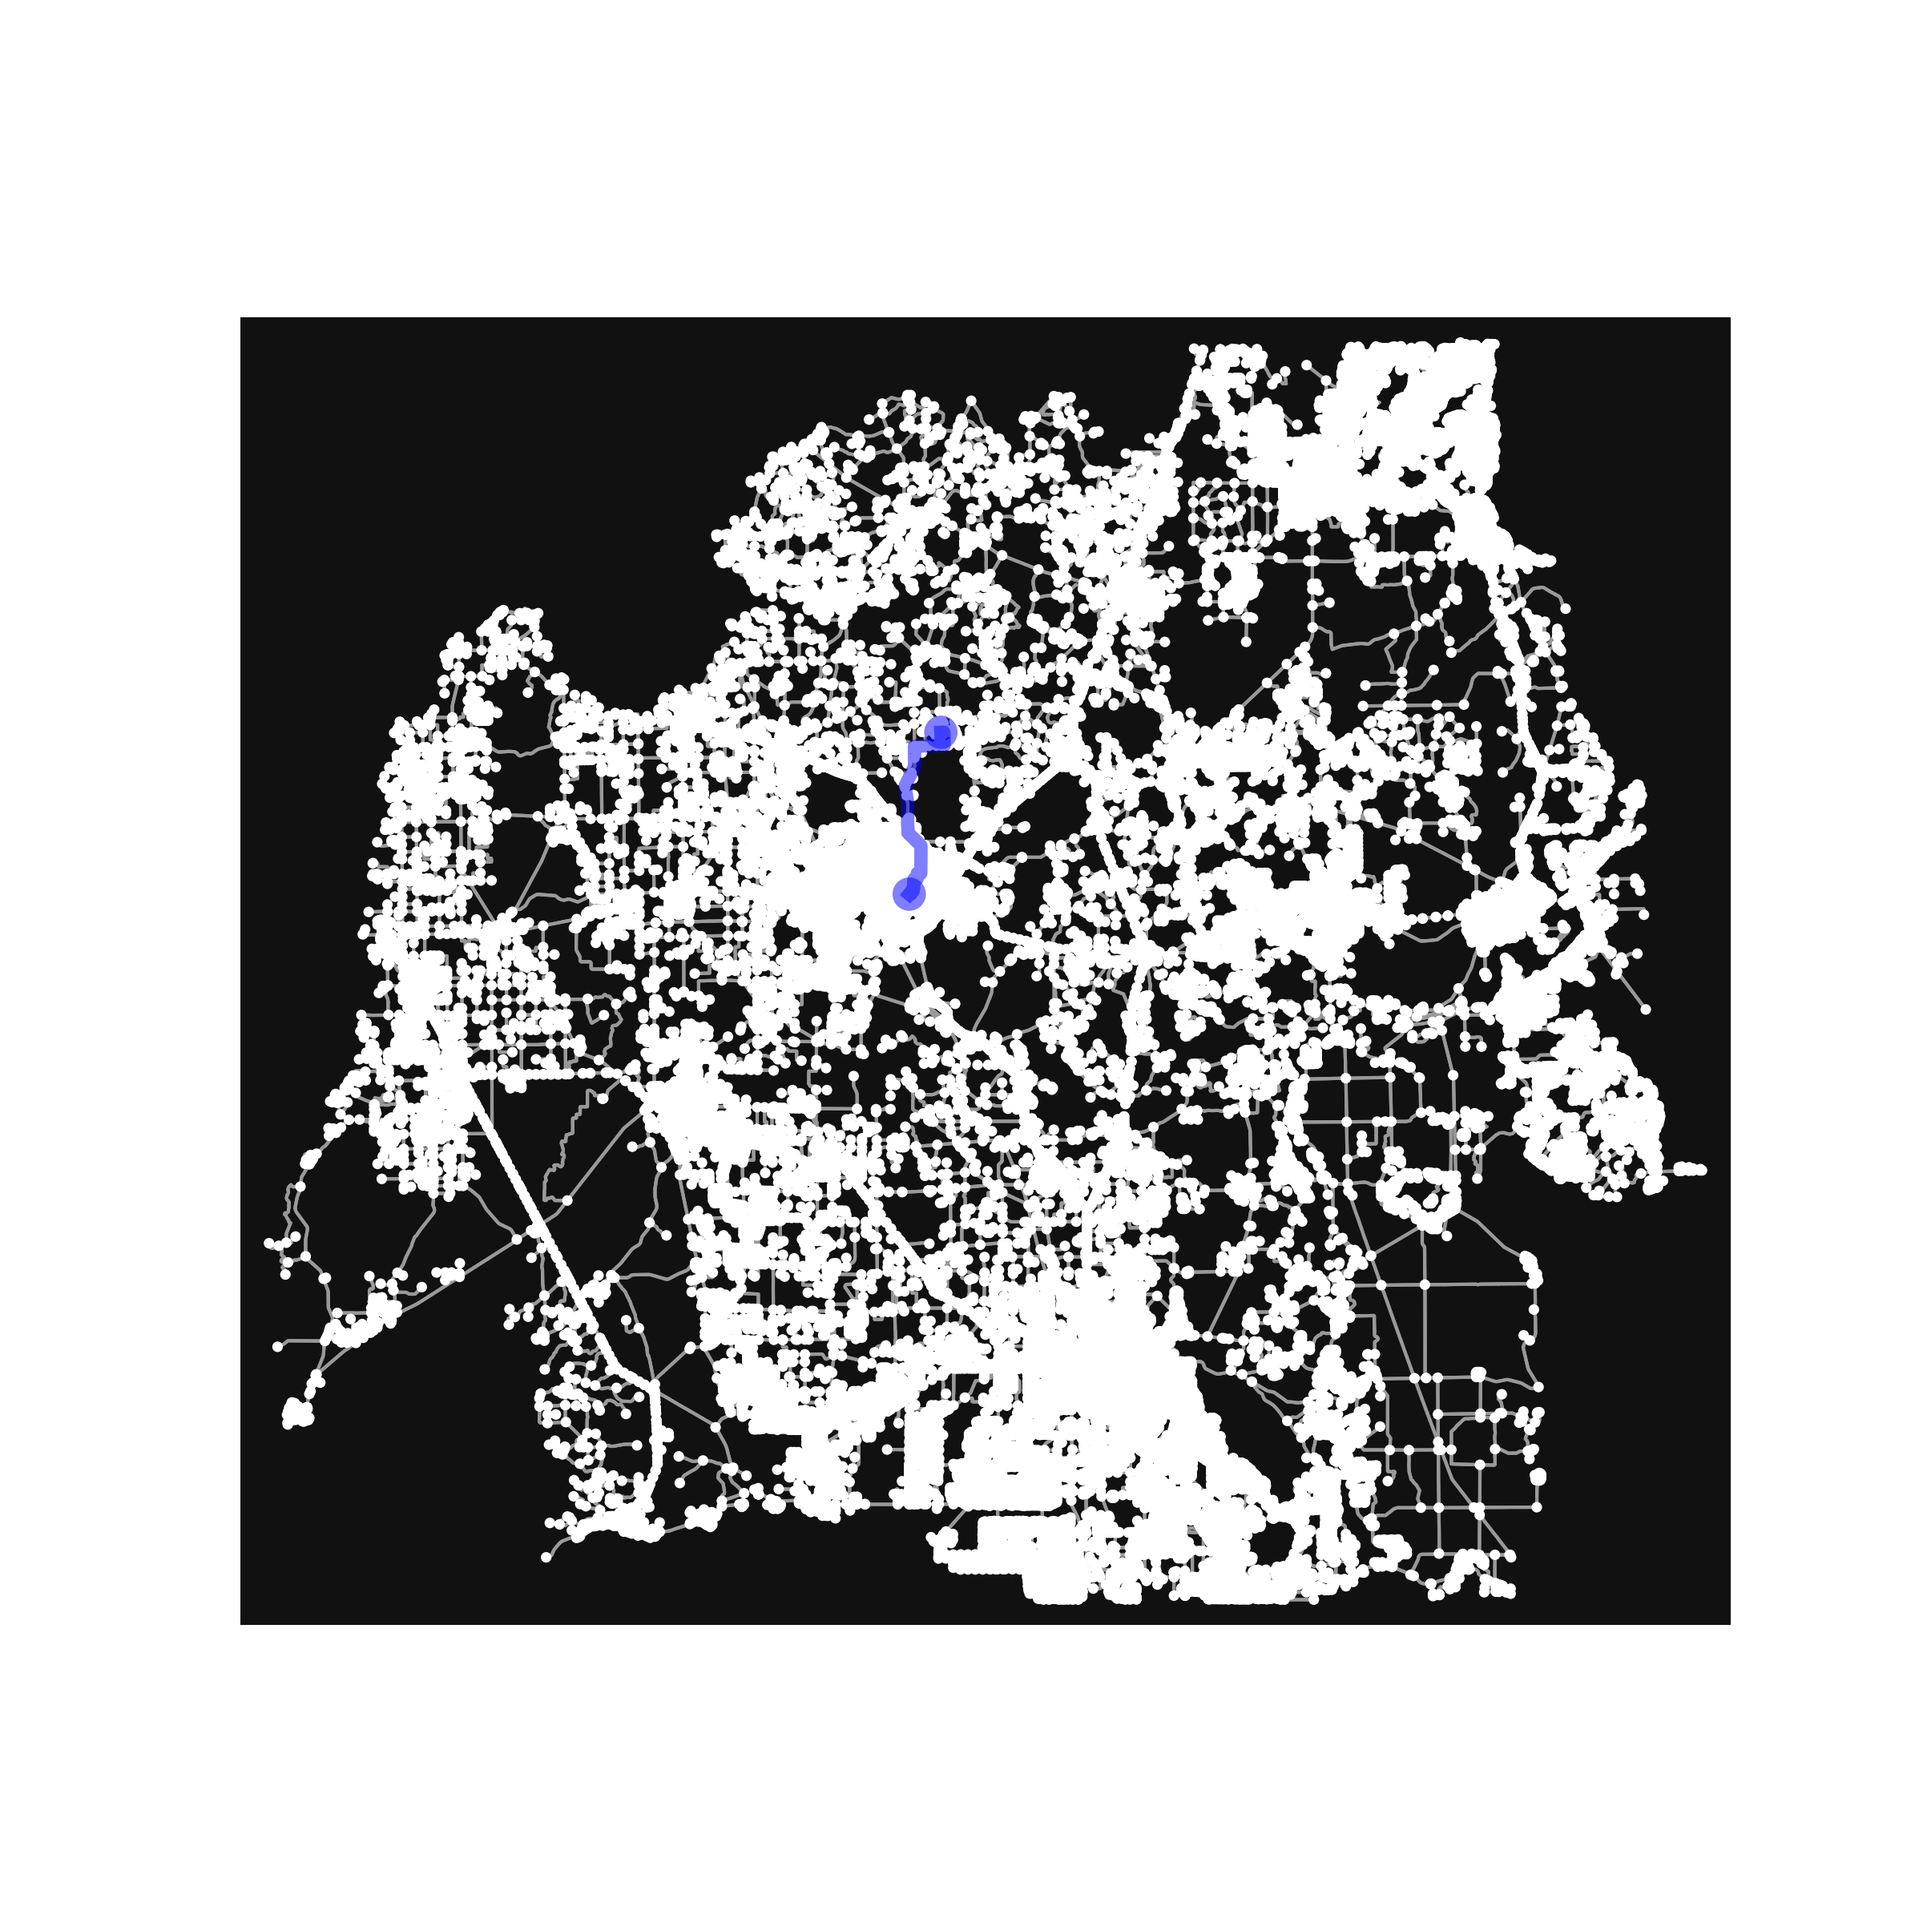
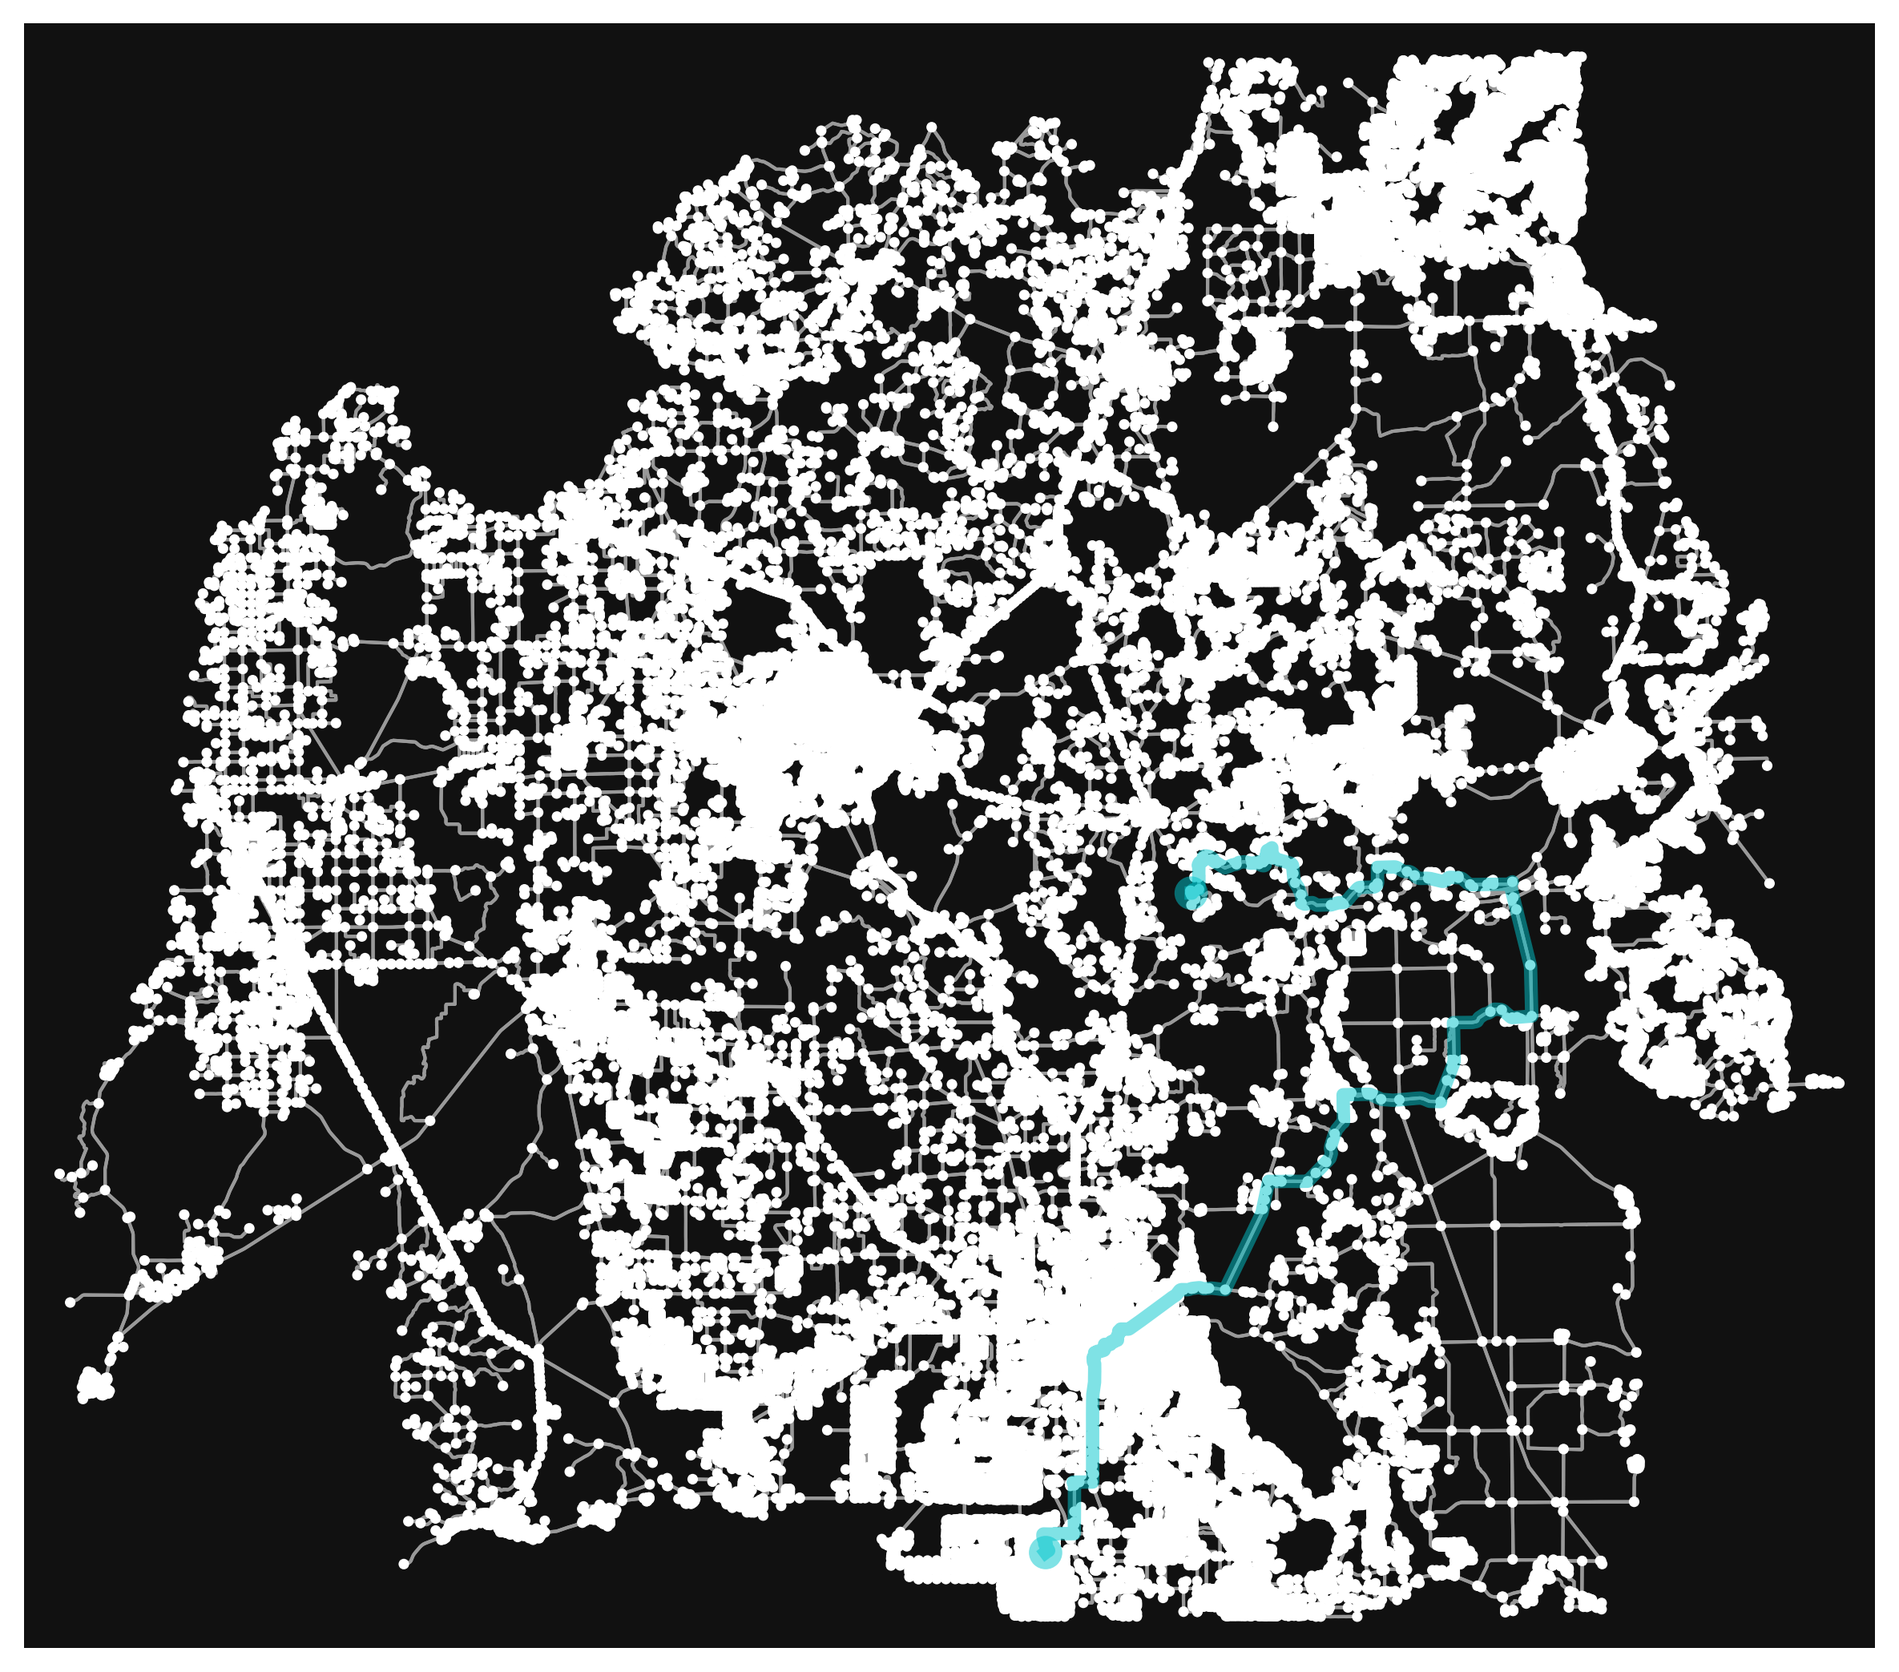
Added CSS styles, error messages & funny message

diff --git a/mapInterface/src/Content.js b/mapInterface/src/Content.js
@@ -1,13 +1,40 @@
-import React, { useState } from "react";
+import React, { useState, useRef } from "react";
 
 const Content = () => {
   const [results, setResults] = useState(null);
   const [error, setError] = useState(null);
   const [isLoading, setIsLoading] = useState(false);
+  const [isTakingLong, setIsTakingLong] = useState("");
   const API_URL = "http://localhost:5000/api/run-functions";
+
+  const timerRef = useRef(null);
+  const randomMessages = [
+    "This was a personal project created by Kaden Luangsouphom and Devan Parekh!",
+    "Did you know that penguins can't fly?",
+    "Fun fact, there are a lot of dangerous creatures that live in Australia!",
+    "Did you know Flamingos aren't born pink?",
+    "Did you know Australia is wider than the moon?",
+    "Did you know Ketchup was once medicine (in the 1830s)?",
+  ];
+
+  const displayMessage = () => {
+    const randomIndex = Math.floor(Math.random() * randomMessages.length);
+    return randomMessages[randomIndex];
+  };
 
   const handleRunFunctions = async () => {
     setIsLoading(true);
+    setError(null);
+    setIsTakingLong("");
+
+    timerRef.current = setTimeout(() => {
+      setIsTakingLong(displayMessage());
+    }, 1000);
+
+    timerRef.current = setTimeout(() => {
+      setIsTakingLong("Generating may take longer for the first click...");
+    }, 12000);
+
     try {
       const response = await fetch(API_URL, {
         method: "POST",
@@ -26,32 +53,47 @@ const Content = () => {
       setError(err.message);
     } finally {
       setIsLoading(false);
+      setIsTakingLong("");
+
+      if (timerRef.current) {
+        clearTimeout(timerRef.current);
+        timerRef.current = null;
+      }
     }
   };
 
   return (
-    <div class="content-div">
-      <h2>Run Pathfinding Algorithms</h2>
-      <button onClick={handleRunFunctions} disabled={isLoading}>
+    <div className="content-div">
+      <h2 style={{ marginBottom: "15px" }}>Run Pathfinding Algorithms</h2>
+      <button
+        class="submit-button"
+        onClick={handleRunFunctions}
+        disabled={isLoading}
+      >
         {isLoading ? "Generating..." : "Generate!"}
       </button>
       {isLoading && <div className="loading-spinner"></div>}
+      {isTakingLong && (
+        <p style={{ color: "rgb(0, 198, 205)" }}>{isTakingLong}</p>
+      )}
       {error && <p style={{ color: "red" }}>{error}</p>}
-      {results && (
-        <div>
-          <h3>Results:</h3>
-          <p>
-            <strong>A*:</strong> {results.a_star.time}s,{" "}
-            {results.a_star.distance}m
-          </p>
-          <p>
-            <strong>Dijkstra's:</strong> {results.dijkstra.time}s,{" "}
-            {results.dijkstra.distance}m
-          </p>
+      {!isLoading && results && (
+        <div class="results-box-dix">
+          <div class="results-text">
+            <h3>Results:</h3>
+            <p>
+              <strong>A*:</strong> {results.a_star.time}s,{" "}
+              {results.a_star.distance}m
+            </p>
+            <p>
+              <strong>Dijkstra's:</strong> {results.dijkstra.time}s,{" "}
+              {results.dijkstra.distance}m
+            </p>
+          </div>
           <img
             src="http://localhost:5000/api/route-image"
             alt="Route Visualization"
-            class="map"
+            className="map"
           />
         </div>
       )}

diff --git a/mapInterface/src/index.css b/mapInterface/src/index.css
@@ -1,3 +1,18 @@
+body, main {
+    margin: 0;
+    padding: 0;
+}
+
+main {
+    display: flex;
+    flex-direction: column;
+    justify-content: center;
+    align-items: center;
+    min-height: 100vh; 
+    color: white;
+    background-color: black;
+}
+
 header {
     width: 100%;
     padding: 0 0.25em;
@@ -43,10 +58,10 @@ select {
     margin: 1em auto;
   }
   
-  @keyframes spin {
+@keyframes spin {
     0% { transform: rotate(0deg); }
     100% { transform: rotate(360deg); }
-  }
+}
 
 .content-div {
     display: flex;
@@ -55,14 +70,53 @@ select {
     align-items: center;
     text-align: center;
     min-height: 100vh; 
-  }
+}
+
 .content-div h2 {
     font-size: 3.5vh;
 }
+
 .map {
-    max-width: 90%;
-    max-height: 80vh;
-    margin: 0;
-    padding: 0;
+    display: block;
+    margin: 0 auto; 
+    max-width: 100%; 
+    max-height: 70vh; 
     object-fit: contain;
+    justify-content: right;
+    border: 2px solid rgb(0, 198, 205);
+    box-shadow: 0 4px 8px rgba(0, 198, 205, 0.8);
+    background-color: black;
+}
+
+.submit-button {
+    font-size: 2vh;
+    padding: 1.2vh 2vh;
+    color: white;
+    background: linear-gradient(135deg, rgb(0, 198, 205), rgb(0, 150, 200));
+    border: none; 
+    border-radius: 10px; 
+    box-shadow: 0 4px 6px rgba(0, 0, 0, 0.2); 
+    transition: all 0.3s ease; 
+}
+
+.submit-button:hover {
+    opacity: 0.9; 
+    transform: scale(1.05);
+    box-shadow: 0 6px 8px rgba(0, 0, 0, 0.3); 
+    cursor: pointer; 
+}
+
+.results-box-dix {
+    display: flex;
+    flex-direction: column;
+    justify-content: center; 
+    align-items: center; 
+    padding: 3vh 0 0 0; 
+    margin: 0 auto;
+    width: auto;
+}
+
+
+.results-text {
+    padding-bottom: 20px;
 }

diff --git a/calcGraph/graph_times.py b/calcGraph/graph_times.py
@@ -75,13 +75,23 @@ def test_algorithms():
 
     # if successful -> plot and display route
     if a_star_path:
-        fig, ax = ox.plot_graph_route(G, a_star_path, route_color="blue", node_size=10, show=False)
+        fig, ax = ox.plot_graph_route(G, a_star_path, route_color="#00c6cd", node_size=10, show=False)
+        ax.margins(0)  
+        fig.tight_layout()
         output_path = "static/route.png"
-        fig.savefig(output_path, dpi=300)
+        fig.savefig(output_path, dpi=300, bbox_inches="tight")  
         plt.close(fig)
 
-    results["a_star"].update({"time": a_star_time, "distance": a_star_distance})
-    results["dijkstra"].update({"time": dijkstra_time, "distance": dijkstra_distance})
+
+    # round results to two and zero decimal points
+    results["a_star"].update({
+        "time": round(a_star_time, 2) if a_star_time else None,
+        "distance": round(a_star_distance, 0) if a_star_distance else None
+    })
+    results["dijkstra"].update({
+        "time": round(dijkstra_time, 2) if dijkstra_time else None,
+        "distance": round(dijkstra_distance, 0) if dijkstra_distance else None
+    })
 
     return results
 
